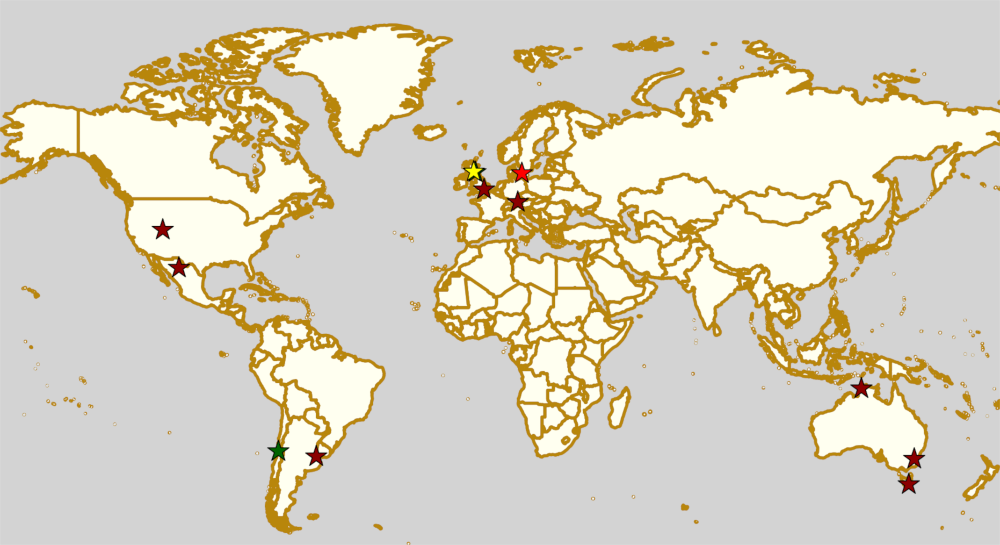
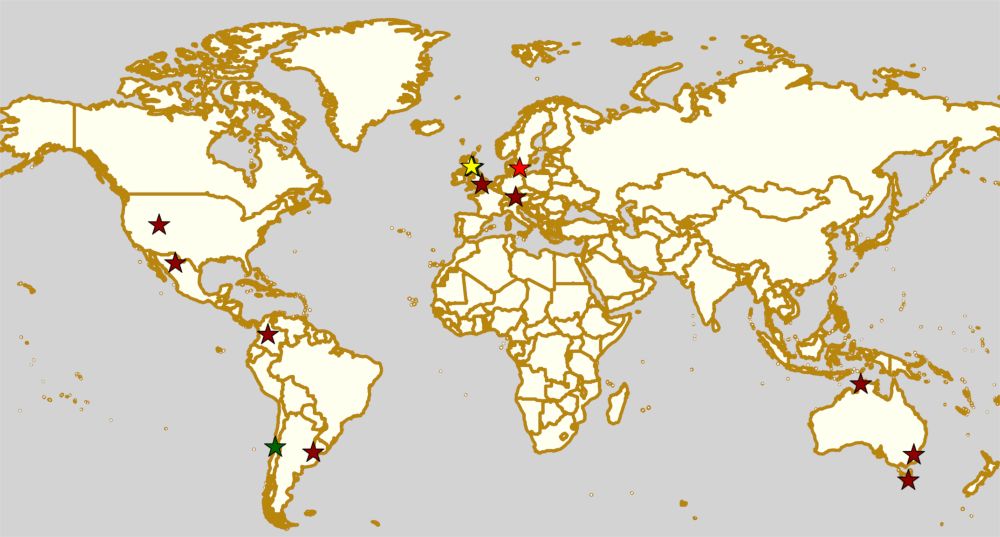
Add Colombia's 'friendly tournament' to the 10 Aug highlights after confirmation from Combativas

diff --git a/output/posts/highlights/2019/weekendhighlights-10082019/index.html b/output/posts/highlights/2019/weekendhighlights-10082019/index.html
@@ -31,6 +31,7 @@
                     <a class="tag" href="../../../../categories/bootcamps/"><span>bootcamps</span></a>
                     <a class="tag" href="../../../../categories/bundesliga/"><span>bundesliga</span></a>
                     <a class="tag" href="../../../../categories/chilean-roller-derby/"><span>chilean roller derby</span></a>
+                    <a class="tag" href="../../../../categories/colombian-roller-derby/"><span>colombian roller derby</span></a>
                     <a class="tag" href="../../../../categories/continental-cup/"><span>continental cup</span></a>
                     <a class="tag" href="../../../../categories/german-roller-derby/"><span>german roller derby</span></a>
                     <a class="tag" href="../../../../categories/mexican-roller-derby/"><span>mexican roller derby</span></a>
@@ -189,6 +190,23 @@ Torneo X, and their opportunities to play other international events within Lati
 </ul>
 <p>Event starts: 0800 Saturday (doors open)</p>
 <p>Venue: Facultad de Ciencias de la Cultura Física., Periférico De La Juventud, Chihuahua, Chihuahua, Mexico</p>
+</div>
+<div class="section" id="sun-bogota-colombia">
+<h2>Sun: Bogotá, Colombia</h2>
+<p><a class="reference external" href="https://www.instagram.com/rollerqueens/">Rock N Roller Queens</a> host a "friendly" tournament for Bogotá's derby community - a "quadrangular" round-robin tournament, round-robin style.</p>
+<ul class="simple">
+<li>Teams:<ul>
+<li>Rock N Roller Queens (Bogotá)</li>
+<li>Kings Roller Derby (Bogotá M)</li>
+<li>Combativas Revoltosas (Bogotá)</li>
+<li>Mixed Subscription team</li>
+</ul>
+</li>
+</ul>
+<p><em>At present, there is no event for this on Facebook, and the RRQ FB page is very inactive. We have not listed this in FTS, as the games are described
+as "friendlies". As soon as we find a public link for this event, we will add it to this entry.</em></p>
+<p>Event starts: 1400 Sunday</p>
+<p>Venue: Pista Polo, Cra. 24 #24a - 86a, Bogotá, Colombia</p>
 <hr class="docutils">
 <div class="section" id="also-of-interest-due-to-their-attendees">
 <h3>Also of interest, due to their attendees:</h3>

diff --git a/output/index.html b/output/index.html
@@ -29,6 +29,7 @@
                             <a class="tag" href="categories/bootcamps/"><span>bootcamps</span></a>
                             <a class="tag" href="categories/bundesliga/"><span>bundesliga</span></a>
                             <a class="tag" href="categories/chilean-roller-derby/"><span>chilean roller derby</span></a>
+                            <a class="tag" href="categories/colombian-roller-derby/"><span>colombian roller derby</span></a>
                             <a class="tag" href="categories/continental-cup/"><span>continental cup</span></a>
                             <a class="tag" href="categories/german-roller-derby/"><span>german roller derby</span></a>
                             <a class="tag" href="categories/mexican-roller-derby/"><span>mexican roller derby</span></a>

diff --git a/output/categories/colombian-roller-derby/index.html b/output/categories/colombian-roller-derby/index.html
@@ -29,6 +29,9 @@
 
     </header><ul class="postlist">
 <li>
+<time class="listdate" datetime="2019-08-06T19:30:00+01:00" title="2019-08-06 19:30">2019-08-06 19:30</time><a href="../../posts/highlights/2019/weekendhighlights-10082019/" class="listtitle">Weekend Highlights: 10 August 2019</a><a></a>
+</li>
+            <li>
 <time class="listdate" datetime="2019-06-11T10:00:00+01:00" title="2019-06-11 10:00">2019-06-11 10:00</time><a href="../../posts/highlights/2019/weekendhighlights-15062019/" class="listtitle">Weekend Highlights: 15 June 2019</a><a></a>
 </li>
         </ul></article>

diff --git a/output/posts/highlights/2019/weekendhighlights-10082019/index.rst b/output/posts/highlights/2019/weekendhighlights-10082019/index.rst
@@ -1,7 +1,7 @@
 .. title: Weekend Highlights: 10 August 2019
 .. slug: weekendhighlights-10082019
 .. date: 2019-08-06 19:30:00 UTC+01:00
-.. tags: weekend highlights, mexican roller derby, chilean roller derby, argentine roller derby, german roller derby, bundesliga, asociación mexicana de roller derby, australian roller derby, swedish roller derby, bootcamps, wftda, continental cup
+.. tags: weekend highlights, mexican roller derby, chilean roller derby, argentine roller derby, german roller derby, bundesliga, asociación mexicana de roller derby, australian roller derby, swedish roller derby, bootcamps, wftda, continental cup, colombian roller derby
 .. category:
 .. link:
 .. description:
@@ -278,6 +278,27 @@ Event starts: 0800 Saturday (doors open)
 
 Venue: Facultad de Ciencias de la Cultura Física., Periférico De La Juventud, Chihuahua, Chihuahua, Mexico
 
+Sun: Bogotá, Colombia
+--------------------------------
+
+
+`Rock N Roller Queens`_ host a "friendly" tournament for Bogotá's derby community - a "quadrangular" round-robin tournament, round-robin style.
+
+.. _Rock N Roller Queens: https://www.instagram.com/rollerqueens/
+
+- Teams:
+
+  - Rock N Roller Queens (Bogotá)
+  - Kings Roller Derby (Bogotá M)
+  - Combativas Revoltosas (Bogotá)
+  - Mixed Subscription team
+
+*At present, there is no event for this on Facebook, and the RRQ FB page is very inactive. We have not listed this in FTS, as the games are described
+as "friendlies". As soon as we find a public link for this event, we will add it to this entry.*
+
+Event starts: 1400 Sunday
+
+Venue: Pista Polo, Cra. 24 #24a - 86a, Bogotá, Colombia
 
 =======
 

diff --git a/posts/highlights/2019/wknd-10Aug2019.rst b/posts/highlights/2019/wknd-10Aug2019.rst
@@ -1,7 +1,7 @@
 .. title: Weekend Highlights: 10 August 2019
 .. slug: weekendhighlights-10082019
 .. date: 2019-08-06 19:30:00 UTC+01:00
-.. tags: weekend highlights, mexican roller derby, chilean roller derby, argentine roller derby, german roller derby, bundesliga, asociación mexicana de roller derby, australian roller derby, swedish roller derby, bootcamps, wftda, continental cup
+.. tags: weekend highlights, mexican roller derby, chilean roller derby, argentine roller derby, german roller derby, bundesliga, asociación mexicana de roller derby, australian roller derby, swedish roller derby, bootcamps, wftda, continental cup, colombian roller derby
 .. category:
 .. link:
 .. description:
@@ -278,6 +278,27 @@ Event starts: 0800 Saturday (doors open)
 
 Venue: Facultad de Ciencias de la Cultura Física., Periférico De La Juventud, Chihuahua, Chihuahua, Mexico
 
+Sun: Bogotá, Colombia
+--------------------------------
+
+
+`Rock N Roller Queens`_ host a "friendly" tournament for Bogotá's derby community - a "quadrangular" round-robin tournament, round-robin style.
+
+.. _Rock N Roller Queens: https://www.instagram.com/rollerqueens/
+
+- Teams:
+
+  - Rock N Roller Queens (Bogotá)
+  - Kings Roller Derby (Bogotá M)
+  - Combativas Revoltosas (Bogotá)
+  - Mixed Subscription team
+
+*At present, there is no event for this on Facebook, and the RRQ FB page is very inactive. We have not listed this in FTS, as the games are described
+as "friendlies". As soon as we find a public link for this event, we will add it to this entry.*
+
+Event starts: 1400 Sunday
+
+Venue: Pista Polo, Cra. 24 #24a - 86a, Bogotá, Colombia
 
 =======
 
